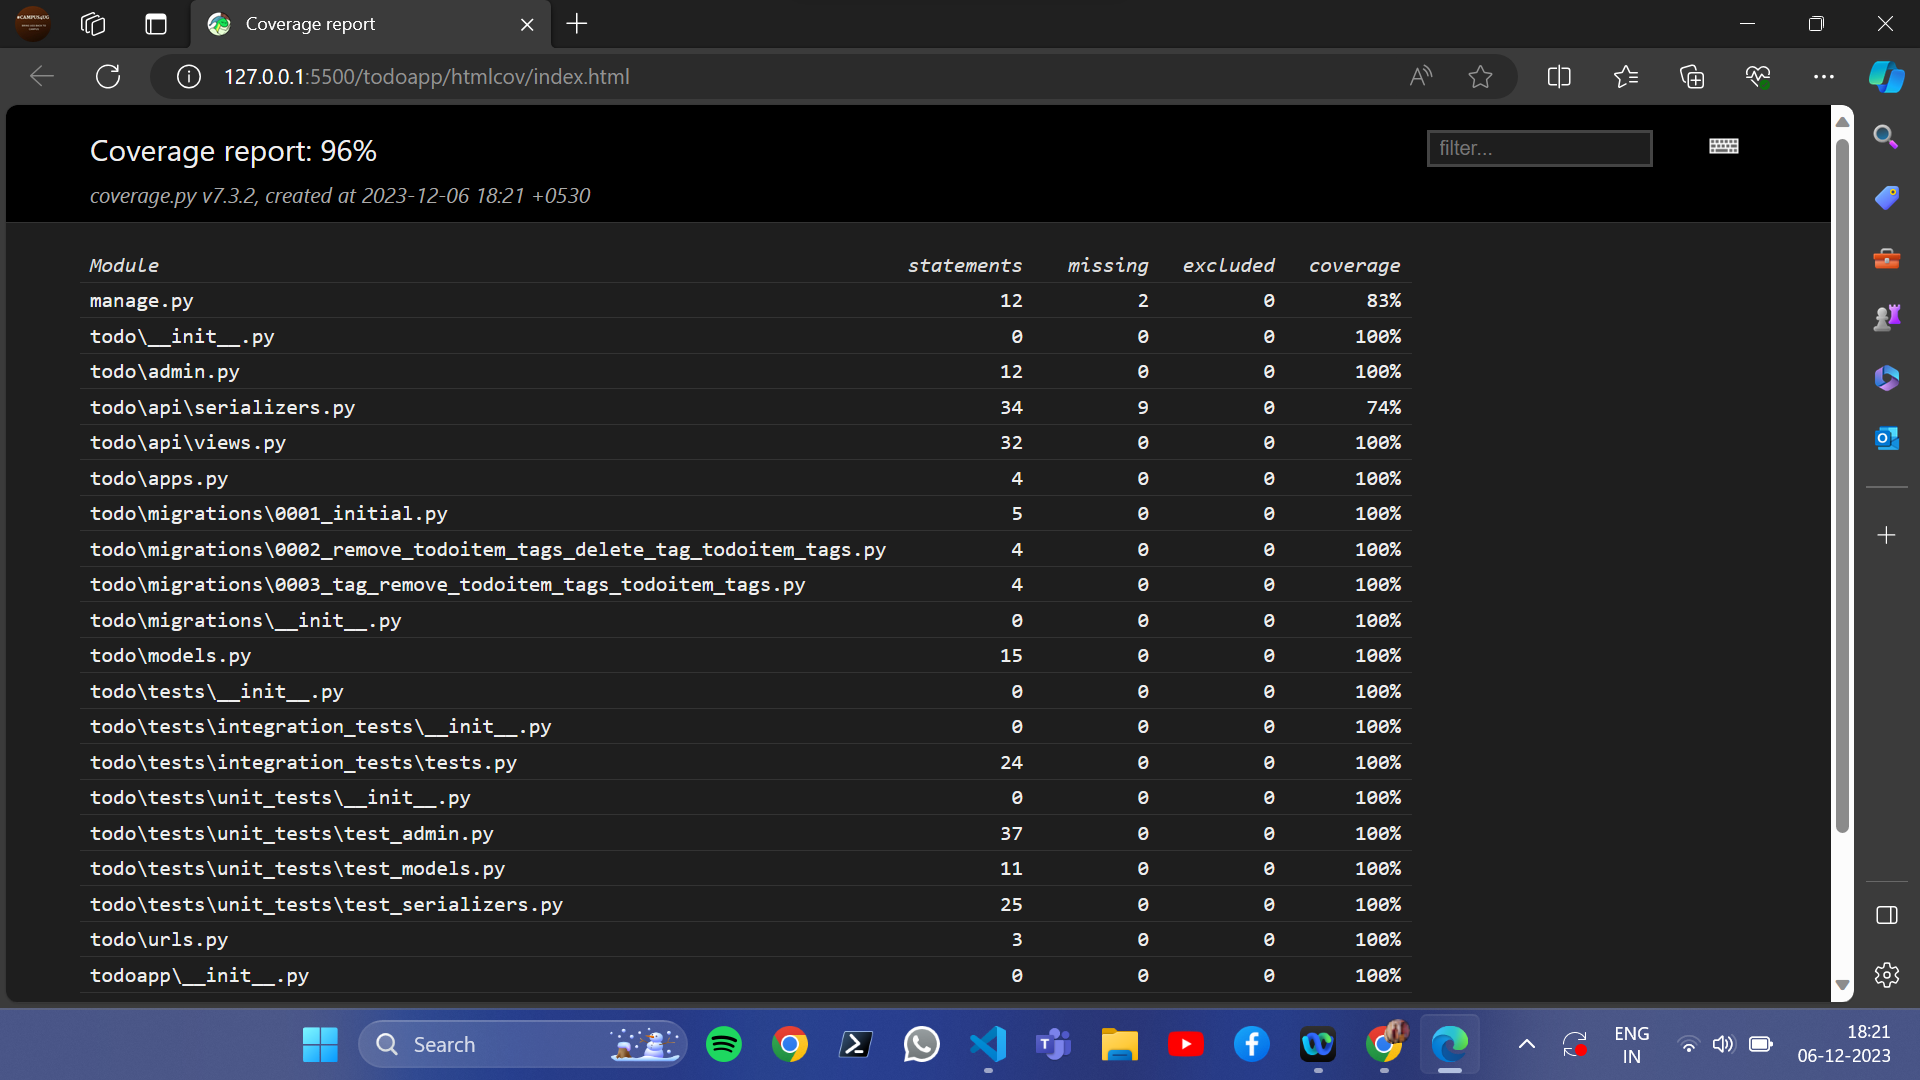
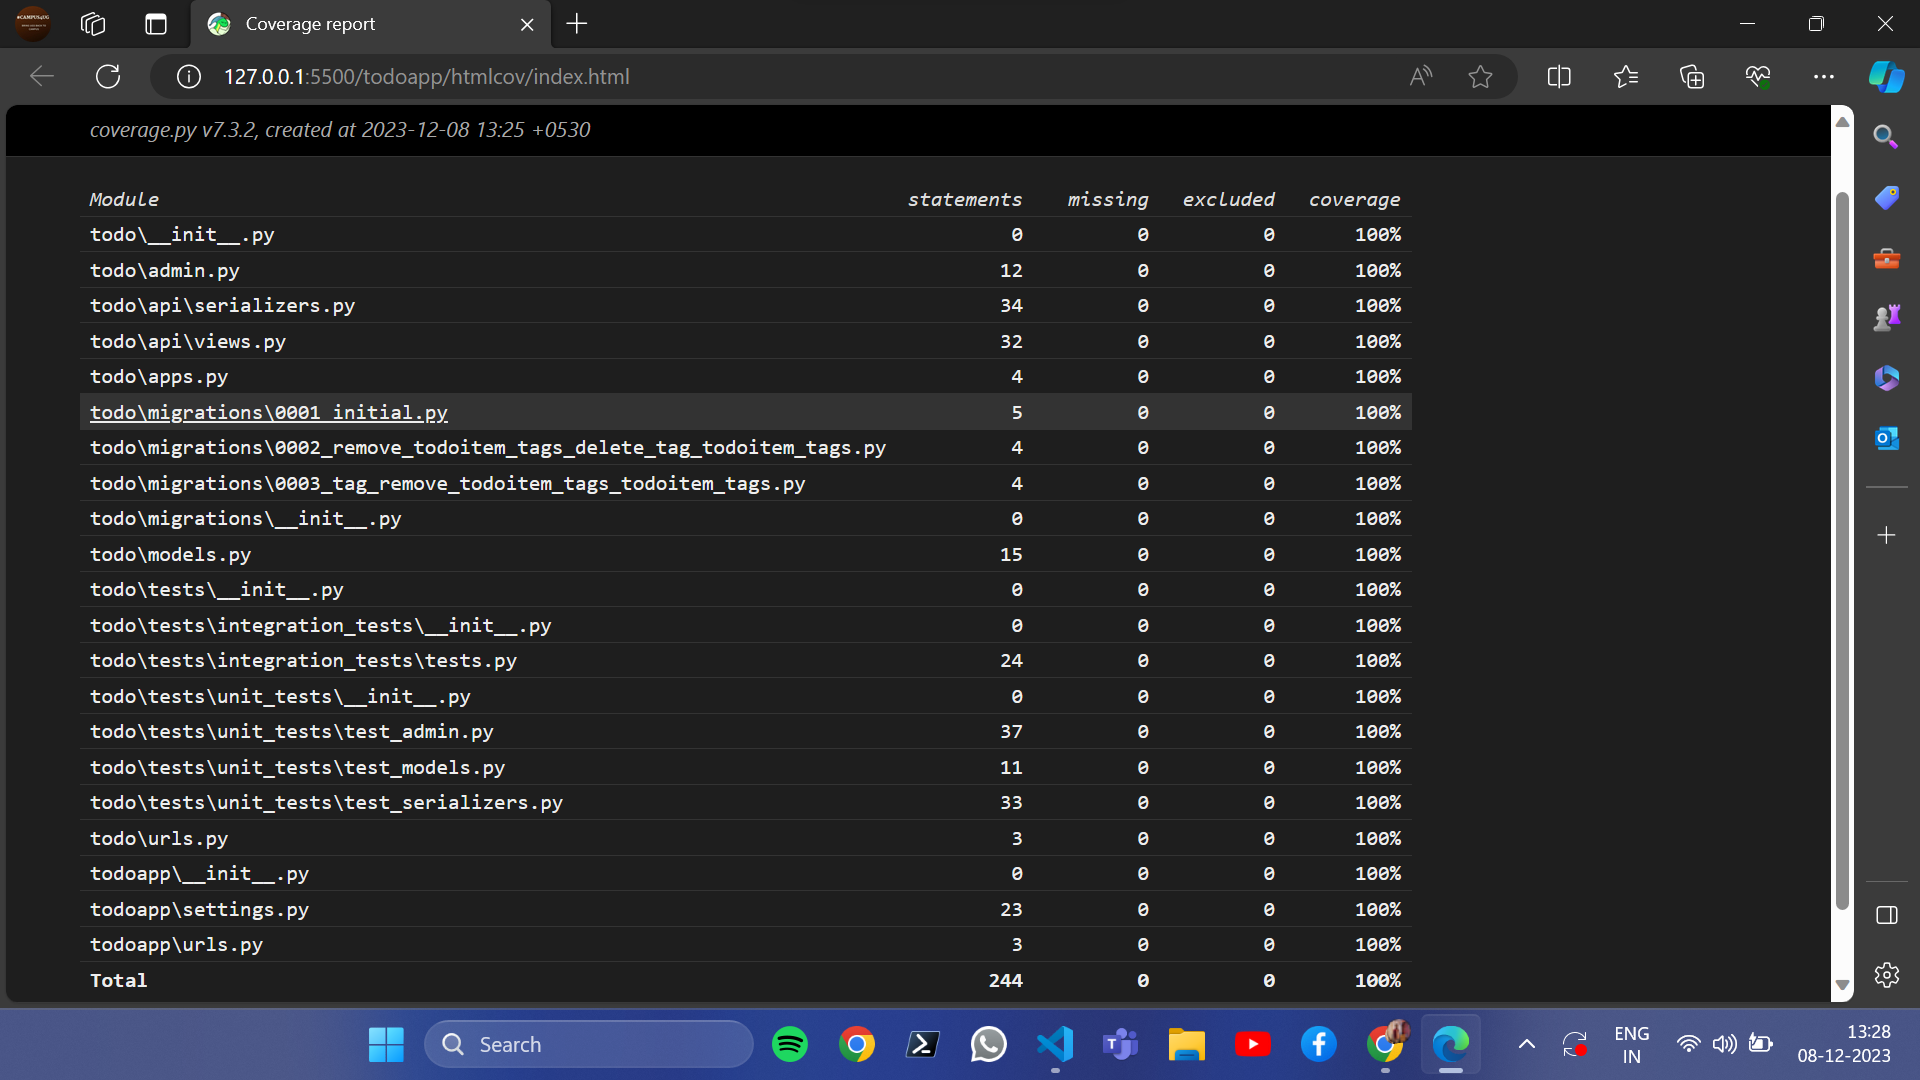
coverage improve part 2

diff --git a/todo/tests/unit_tests/test_serializers.py b/todo/tests/unit_tests/test_serializers.py
@@ -1,51 +1,45 @@
-from rest_framework.test import APITestCase
+from django.test import TestCase
 from todo.models import TodoItem, Tag
 from todo.api.serializers import TagSerializer, TodoItemSerializer
 
-class TodoItemSerializerTest(APITestCase):
+class TagSerializerTest(TestCase):
+    def test_tag_serializer(self):
+        tag_data = {'name': 'Test Tag'}
+        serializer = TagSerializer(data=tag_data)
+        self.assertTrue(serializer.is_valid())
+        tag_instance = serializer.save()
+        self.assertIsInstance(tag_instance, Tag)
+        self.assertEqual(tag_instance.name, 'Test Tag')
+
+class TodoItemSerializerTest(TestCase):
     def setUp(self):
-        self.tag1 = Tag.objects.create(name='tag1')
-        self.tag2 = Tag.objects.create(name='tag2')
+        self.tag1 = Tag.objects.create(name='Tag1')
+        self.tag2 = Tag.objects.create(name='Tag2')
 
-    def test_create_todo_item_with_tags(self):
-        # Create test data
-        tag_data = [{'name': 'tag1'}, {'name': 'tag2'}]
+    def test_todo_item_serializer_create(self):
         todo_data = {
-            'title': 'Test Todo Item',
+            'title': 'Test Todo',
             'description': 'Test Description',
-            'tags': tag_data
+            'tags': [{'name': 'Tag1'}, {'name': 'Tag2'}]
         }
-
-        # Serialize and validate data
         serializer = TodoItemSerializer(data=todo_data)
         self.assertTrue(serializer.is_valid())
+        todo_instance = serializer.save()
+        self.assertIsInstance(todo_instance, TodoItem)
+        self.assertEqual(todo_instance.title, 'Test Todo')
+        self.assertEqual(todo_instance.description, 'Test Description')
+        self.assertEqual(todo_instance.tags.count(), 2)
 
-        # Call create method and check for successful creation
-        todo_item = serializer.save()
-        self.assertIsInstance(todo_item, TodoItem)
-        self.assertEqual(todo_item.title, 'Test Todo Item')
-
-        # Check tags are associated properly
-        self.assertEqual(todo_item.tags.count(), 2)
-
-    def test_create_todo_item_with_existing_tags(self):
-        # Create test data with existing tags
-        tag_data = [{'name': 'tag1'}, {'name': 'tag2'}]
+    def test_todo_item_serializer_update(self):
+        todo_item = TodoItem.objects.create(title='Existing Todo', description='Existing Description')
         todo_data = {
-            'title': 'Todo with existing tags',
-            'description': 'Description with existing tags',
-            'tags': tag_data
+            'title': 'Updated Todo',
+            'description': 'Updated Description',
+            'tags': [{'name': 'Tag1'}, {'name': 'Tag3'}]  # 'Tag3' doesn't exist yet
         }
-
-        # Serialize and validate data
-        serializer = TodoItemSerializer(data=todo_data)
+        serializer = TodoItemSerializer(instance=todo_item, data=todo_data, partial=True)
         self.assertTrue(serializer.is_valid())
-
-        # Call create method and check for successful creation
-        todo_item = serializer.save()
-        self.assertIsInstance(todo_item, TodoItem)
-        self.assertEqual(todo_item.title, 'Todo with existing tags')
-
-        # Check tags are associated properly
-        self.assertEqual(todo_item.tags.count(), 2)
-
+        updated_todo = serializer.save()
+        self.assertEqual(updated_todo.title, 'Updated Todo')
+        self.assertEqual(updated_todo.description, 'Updated Description')
+        self.assertEqual(updated_todo.tags.count(), 2)  # One existing and one newly created tag
